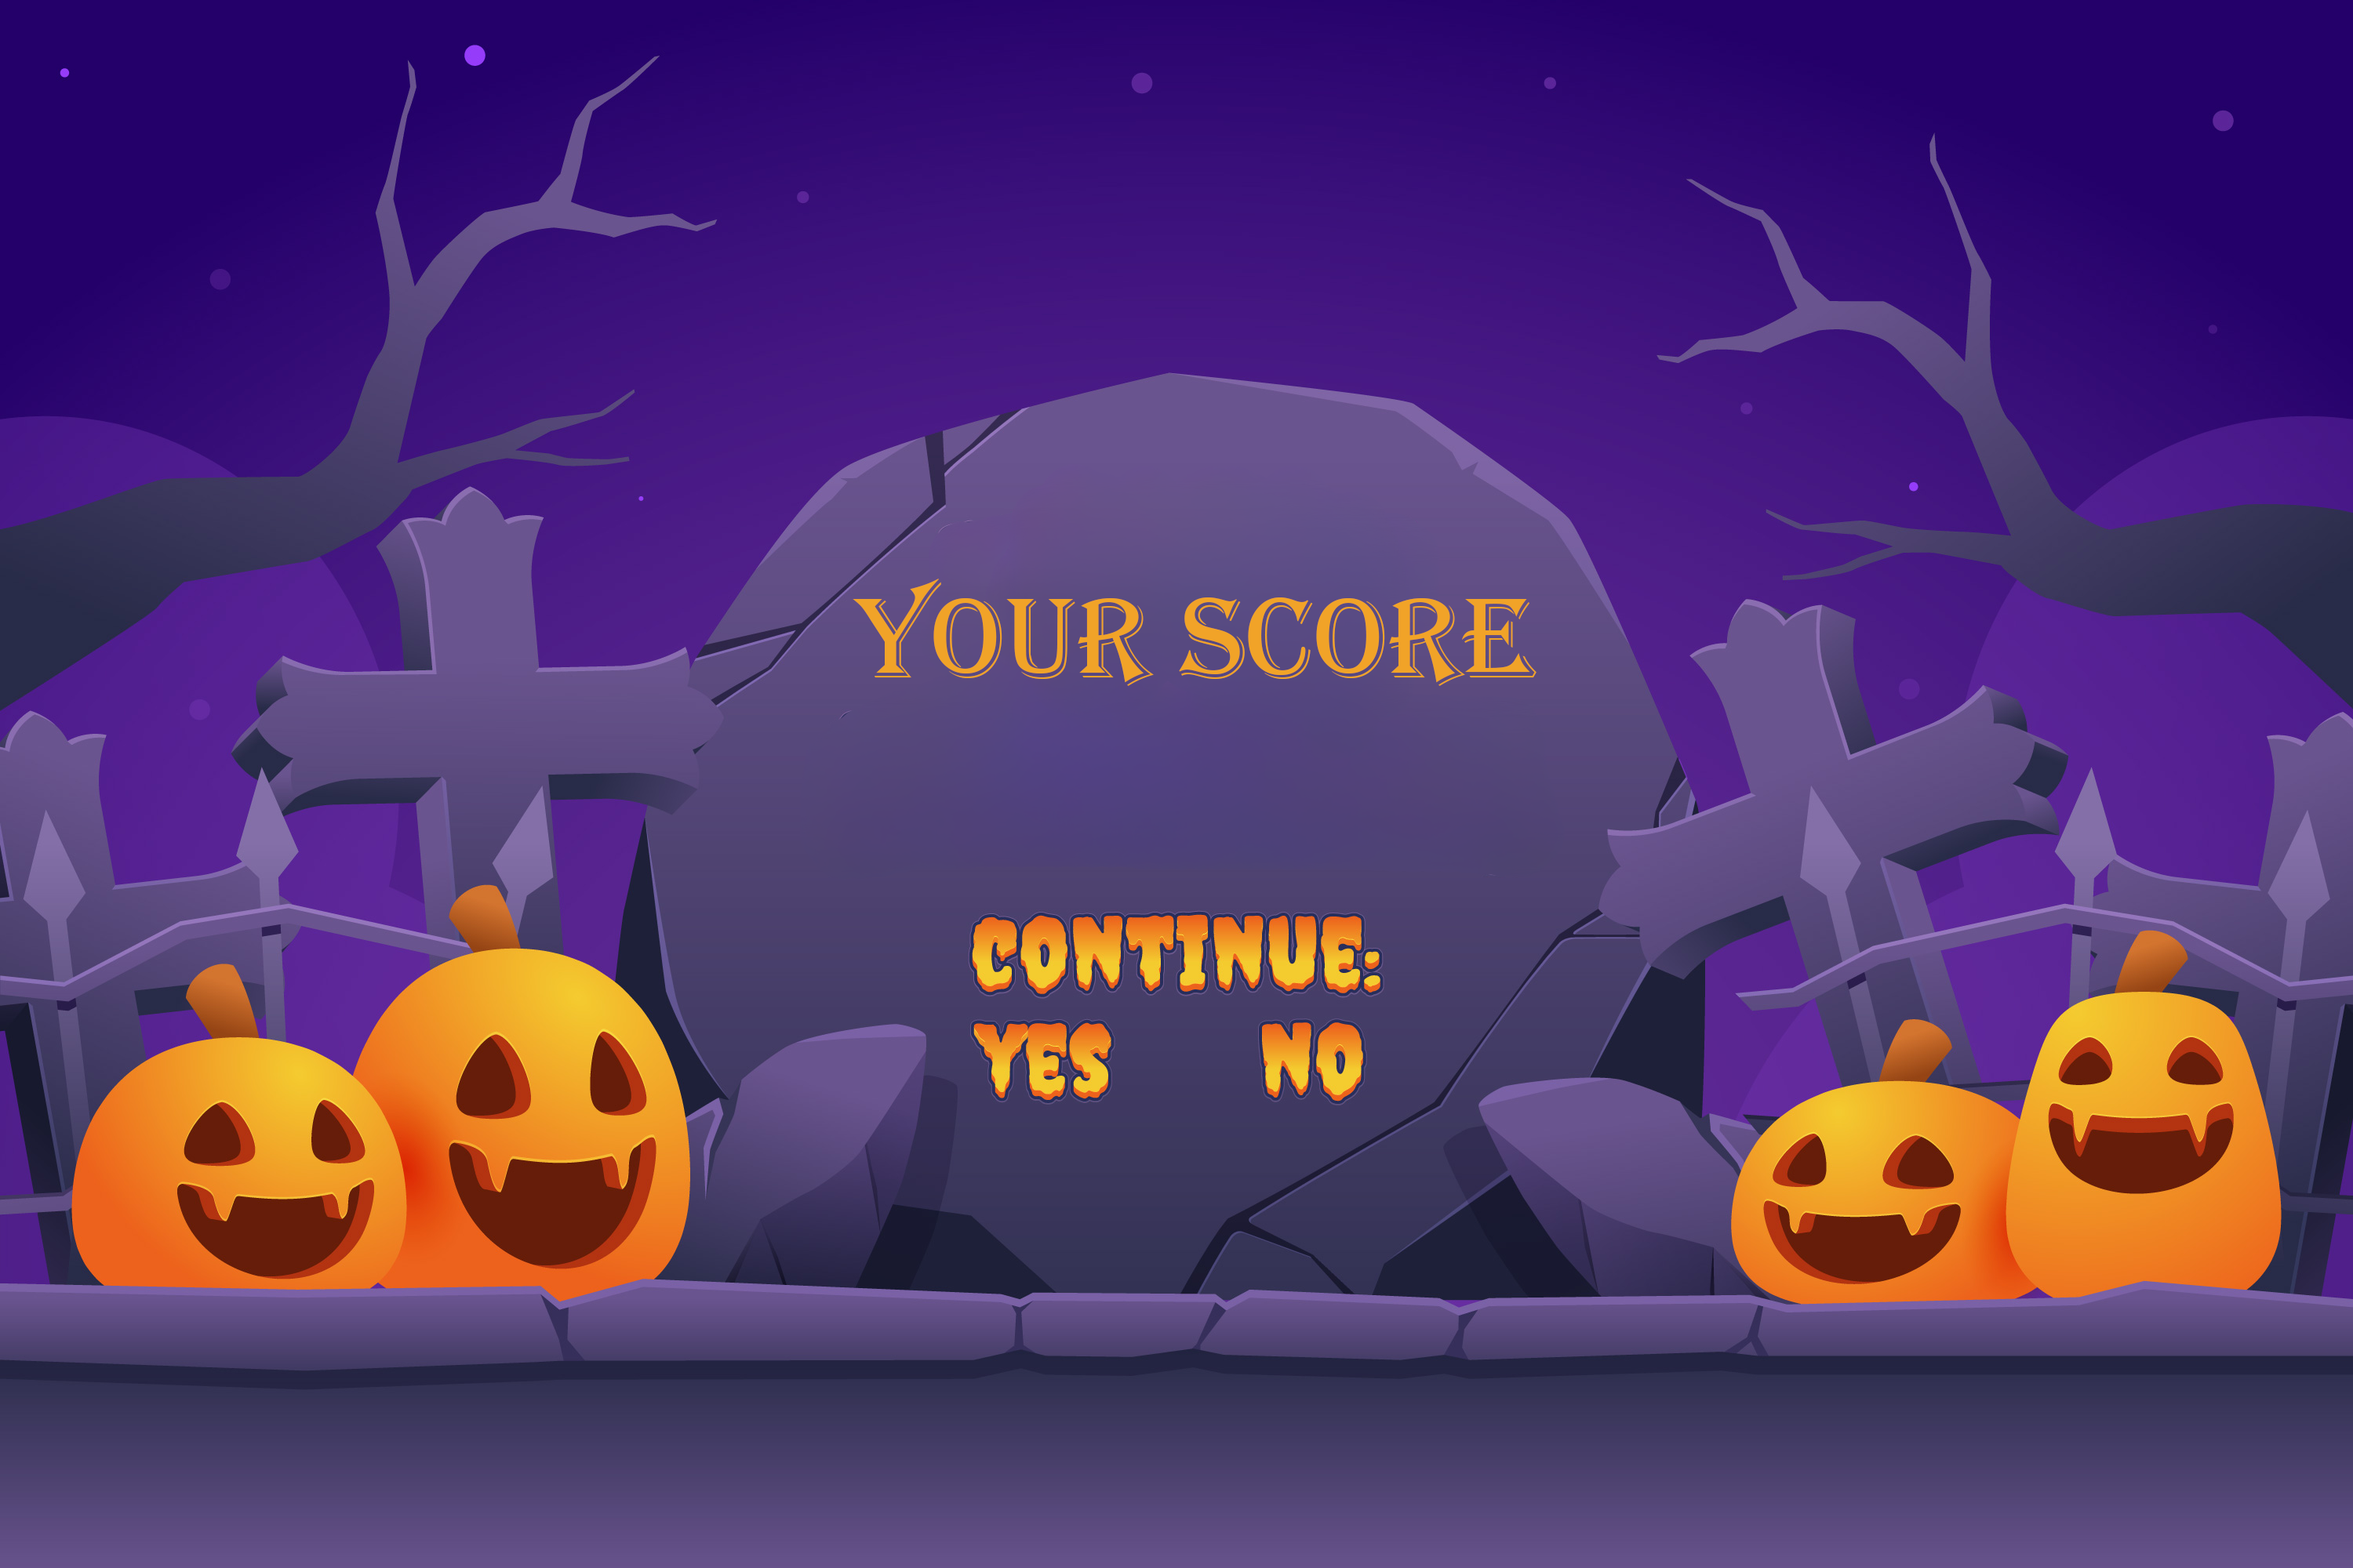
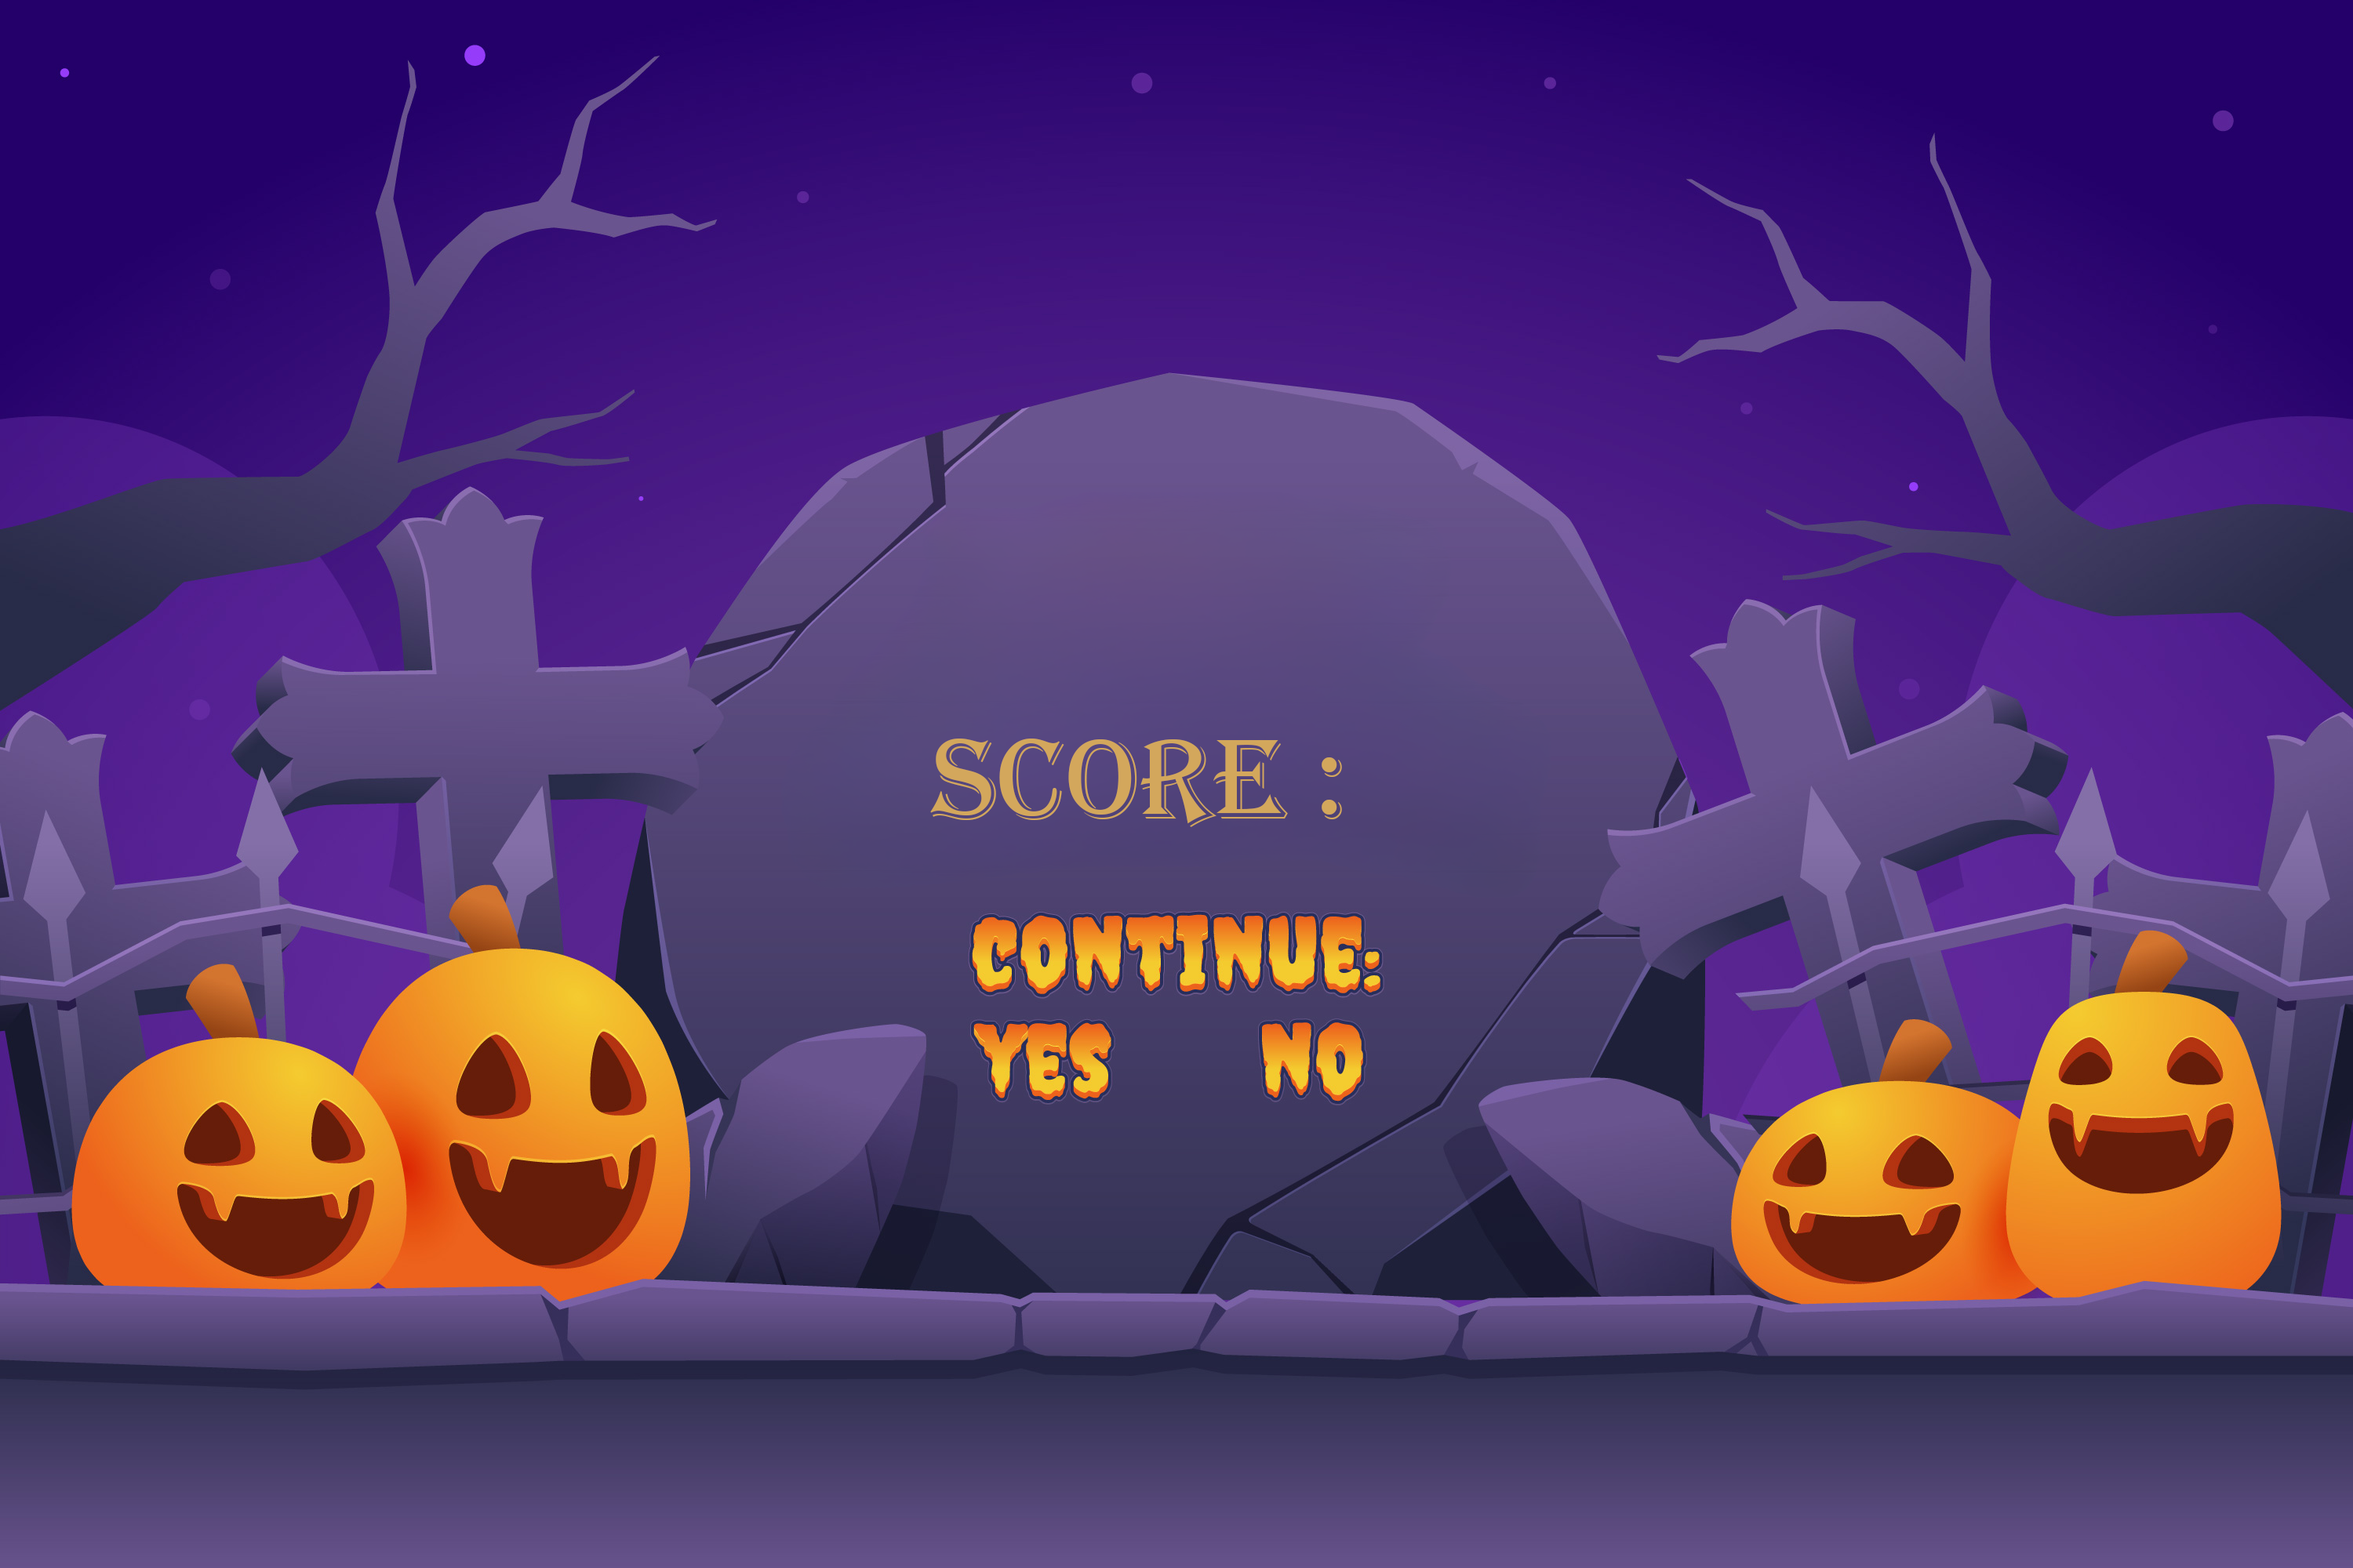
fixed display and added highest scores page

Changed region(s): [[0.372, 0.372, 0.651, 0.434], [0.403, 0.465, 0.558, 0.527]]

diff --git a/src/gameplay/Players/GameGLEventListener.java b/src/gameplay/Players/GameGLEventListener.java
@@ -25,13 +25,15 @@ public class GameGLEventListener extends AnimationListener {
     CLASS VARIABLES
     -----------------
      */
-    String S1 = "Player One";
-    String S2 = "Player Two";
+    public static String S1 = "Player One";
+    public static String S2 = "Player Two";
     Sound sound = new Sound();
     boolean paused=false;
     String pause="playing";
     boolean helpInGame=false;
     Menus UI = new Menus();
+
+    public static ArrayList<Player> scores = new ArrayList<>();
 
     // game timer
     private int timer = 0;
@@ -48,6 +50,9 @@ public class GameGLEventListener extends AnimationListener {
 
     Player player1 = new Player(21,40); // initiating player1 at position (21,40)
     Player player2 = new Player(21,60); // initiating player2 at position (21,60)
+
+    String teamName;
+    Player team;
 
     boolean playing = false;
 
@@ -80,7 +85,7 @@ public class GameGLEventListener extends AnimationListener {
             ,"Zombie//Zmove15.png","Zombie//Zmove16.png",
 
             "Buttons/Pause.png","Views/Menus/Pause.png","Views/Menus/One_Player_Score.png","Views/Menus/Two_Players_Score.png",
-            "Game//Player One Score and Lives.png" , "Game//Player Two Score and Lives.png" , "Game//Timer.png" ,
+            "Game//Player One Score and Lives.png" , "Game//Player Two Score and Lives.png" , "Game//Timer.png" ,"Buttons//High_Score.png","Views/Menus/High_Score.png",
 
 
             // backGround picture
@@ -92,7 +97,7 @@ public class GameGLEventListener extends AnimationListener {
     int[] player1Move = {0, 1, 2, 3, 4, 5, 6, 7, 8, 9, 10, 11, 12, 13, 14, 15,16, 17, 18, 19},
           player2Move = {20, 21, 22, 23, 24, 25, 26, 27, 28, 29, 30, 31, 32, 33, 34, 35, 36, 37, 38, 39},
 
-            zombieMove  ={54,55,56,57,58,59,60,61,62,63,64,65,66,67,68,69,70};
+          zombieMove  ={54,55,56,57,58,59,60,61,62,63,64,65,66,67,68,69,70};
 
     int player1AnimationIndex = 0, player2AnimationIndex = 0; // players animation indexes to change pictures while moving
 
@@ -325,10 +330,8 @@ public class GameGLEventListener extends AnimationListener {
                 if (check[i] == 1) {
                     Zombie zombie= zombies.get(i);
                     if (zombie.getX() > 20) {
-                        zombieAnimationIndex %=17;
                         zombie.DrawZombie(gl,zombie.getX(),zombie.getY(),zombieMove[zombieAnimationIndex],10,10);
                         if (!paused) {
-                            zombieAnimationIndex++;
                             if (UI.getDifficulty().equals("easy")) {
                                 zombie.Move(0.2);
                             } else if (UI.getDifficulty().equals("medium")) {
@@ -382,14 +385,17 @@ public class GameGLEventListener extends AnimationListener {
             if (!player1.isAlive()&&!player2.isAlive()) {
                 UI.setCurrent("multiScore");
                 UI.DrawBackGround(gl, 0, 0, 74);
-                renderScore(player1,441,420);
-                renderScore(player2,441,345);
+                renderScore(player1,410,390);
+                renderScore(player2,410,299);
+                Render(textRenderer,275,445,S1,30);
+                Render(textRenderer,275,355,S2,30);
             }
         }else{
             if (!player1.isAlive()) {
                 UI.setCurrent("singleScore");
                 UI.DrawBackGround(gl, 0, 0, 73);
-                renderScore(player1,350,350);
+                renderScore(player1,405,334);
+                Render(textRenderer,275,400,S1,30);
             }
         }
     }
@@ -441,14 +447,26 @@ public class GameGLEventListener extends AnimationListener {
     }
 
     public void resetGame(){
+        if(UI.isMultiPlayer()) {
+            teamName = "team_" + player1.getName() + "&" + player2.getName();
+            team = new Player(0,0);
+            team.setName(teamName);
+            team.setScore(player1.getScore() + player2. getScore());
+            scores.add(team);
+        }
+        else{
+            scores.add(player1);
+        }
         player1 = new Player(21,40);
         player2 = new Player(21,60);
         zombies.clear();
         Arrays.fill(check,0);
+        S1 = "Player One";
+        S2 = "Player Two";
     }
     public void renderScore(Player player,int x,int y){
         TextRenderer textRenderer;
-        textRenderer = new TextRenderer(new Font("Arial", 1, 20));
+        textRenderer = new TextRenderer(new Font("Arial", 1, 40));
         textRenderer.beginRendering(700, 700);
         textRenderer.setColor(Color.WHITE);
         textRenderer.setSmoothing(true);
@@ -593,7 +611,6 @@ public class GameGLEventListener extends AnimationListener {
         // get click position
         int xClick = (int)((x / width) * 100);
         int yClick = 100 - (int)(100 * y / height);
-        System.out.println(xClick+","+yClick);
 
 
 //      ------------------------------handle home page buttons-------------------------------
@@ -604,10 +621,14 @@ public class GameGLEventListener extends AnimationListener {
                     playSE(2);
 
                 } else if (xClick >= 40 && xClick <= 57 && yClick <= 40 && yClick >= 35) {
-                    UI.setCurrent("help");
+                    UI.setCurrent("high score");
                     playSE(2);
 
                 } else if (xClick >= 40 && xClick <= 57 && yClick <= 30 && yClick >= 25) {
+                    UI.setCurrent("help");
+                    playSE(2);
+
+                } else if (xClick >= 40 && xClick <= 57 && yClick <= 20 && yClick >= 15) {
                     UI.setCurrent("about");
                     playSE(2);
 
@@ -619,7 +640,7 @@ public class GameGLEventListener extends AnimationListener {
                     playMusic(0);
                     playSE(2);
 
-                } else if (xClick >= 40 && xClick <= 57 && yClick <= 20 && yClick >= 15) {
+                } else if (xClick >= 40 && xClick <= 57 && yClick <= 10 && yClick >= 5) {
                     System.exit(0);
                     playSE(2);
                 }
@@ -682,7 +703,7 @@ public class GameGLEventListener extends AnimationListener {
 //      ---------------------------handle difficulty page buttons----------------------------
 
 //      ------------------------------handle help page buttons----------------------------
-            case "help" -> {
+            case "help" , "high score" -> {
                 if (xClick >= 69 && xClick <= 72 && yClick >= 77 && yClick <= 81) { // exit button has been clicked
                     UI.setCurrent("home");
                     playSE(2);
@@ -735,6 +756,8 @@ public class GameGLEventListener extends AnimationListener {
                     playSE(2);
                     stopMusic();
                     playMusic(1);
+                    player1.setName(S1);
+                    player2.setName(S2);
                 }
             }
             case "game" -> {

diff --git a/src/UI/Menus.java b/src/UI/Menus.java
@@ -1,15 +1,21 @@
 package UI;
 
+import com.sun.opengl.util.j2d.TextRenderer;
+import gameplay.Players.Player;
+
 import javax.media.opengl.GL;
+
+import java.awt.*;
+import java.util.ArrayList;
 
 import static gameplay.Players.GameGLEventListener.*;
 
 public class Menus {
 
-
     private int loginIndex = 52;
     private String current = "home";
     private String difficulty;
+    TextRenderer textRenderer;
 
     private boolean multiPlayer = false; // declare the user choice if the game is single or multiplayer
 
@@ -42,15 +48,32 @@ public class Menus {
         if (current.equals("home")) {
             DrawBackGround(gl, 0, 0, 41);
             DrawSprite(gl, 50, 47, 42, 2, 1);
-            DrawSprite(gl, 50, 37, 43, 2, 1);
-            DrawSprite(gl, 50, 27, 44, 2, 1);
-            DrawSprite(gl, 50, 17, 45, 2, 1);
+            DrawSprite(gl, 50, 37, 78, 2, 1);
+            DrawSprite(gl, 50, 27, 43, 2, 1);
+            DrawSprite(gl, 50, 17, 44, 2, 1);
+            DrawSprite(gl, 50, 7, 45, 2, 1);
             DrawSprite(gl, 45, 55, 46, 1, 1);
             DrawSprite(gl, 55, 55, 47, 1, 1);
         }
         if (current.equals("player")){
             DrawBackGround(gl, 0, 0, 41);
             DrawSprite(gl, 50, 47, 48, 6, 7);
+        }
+        if (current.equals("high score")){
+            DrawBackGround(gl, 0, 0, 41);
+            DrawSprite(gl, 50, 50, 79, 6, 7);
+            int h = 500;
+            for(Player player: scores) {
+                String score = player.getName() + " :  " + player.getScore();
+                textRenderer = new TextRenderer(new Font("Arial", 1, 40));
+                textRenderer.beginRendering(700, 700);
+                textRenderer.setColor(Color.WHITE);
+                textRenderer.setSmoothing(true);
+                textRenderer.draw(score, 238, h);
+                textRenderer.setColor(Color.white);
+                textRenderer.endRendering();
+                h -= 30;
+            }
         }
         if (current.equals("help")) {
             DrawBackGround(gl, 0, 0, 41);
@@ -67,11 +90,28 @@ public class Menus {
             DrawBackGround(gl, 0, 0, 41);
             DrawSprite(gl, 50, 47, 50, 6, 7);
         }
-        if (current.equals("login")) {
+        if (current.equals("login") && !isMultiPlayer()) {
             DrawBackGround(gl, 0, 0, 41);
             DrawSprite(gl, 50, 47, loginIndex, 6, 7);
-
-
+            textRenderer = new TextRenderer(new Font("Arial", 1, 40));
+            textRenderer.beginRendering(700, 700);
+            textRenderer.setColor(Color.WHITE);
+            textRenderer.setSmoothing(true);
+            textRenderer.draw(S1 , 238 , 330);
+            textRenderer.setColor(Color.white);
+            textRenderer.endRendering();
+        }
+        if (current.equals("login") && isMultiPlayer()) {
+            DrawBackGround(gl, 0, 0, 41);
+            DrawSprite(gl, 50, 47, loginIndex, 6, 7);
+            textRenderer = new TextRenderer(new Font("Arial", 1, 25));
+            textRenderer.beginRendering(700, 700);
+            textRenderer.setColor(Color.WHITE);
+            textRenderer.setSmoothing(true);
+            textRenderer.draw(S1 , 240 , 351);
+            textRenderer.draw(S2 , 240 , 260);
+            textRenderer.setColor(Color.white);
+            textRenderer.endRendering();
         }
 
     }

diff --git a/src/gameplay/Players/Player.java b/src/gameplay/Players/Player.java
@@ -14,6 +14,8 @@ public class Player {
      */
     private double x, y; // x and y position of the player
 
+    private String name;
+
     private int handleSpreading = 7; // keep 7 frames between bullets from the same player
 
     private int lives = 3; // initiating 3 lives for player
@@ -35,6 +37,14 @@ public class Player {
     Player(double x, double y) {
         this.x = x;
         this.y = y;
+    }
+
+    void setName(String name){
+        this.name = name;
+    }
+
+    public String getName(){
+        return name;
     }
 
     double getX() {
@@ -71,7 +81,10 @@ public class Player {
         score++;
     }
 
-    int getScore(){
+    public void setScore(int score){
+        this.score = score;
+    }
+    public int getScore(){
         return score;
     }
 
